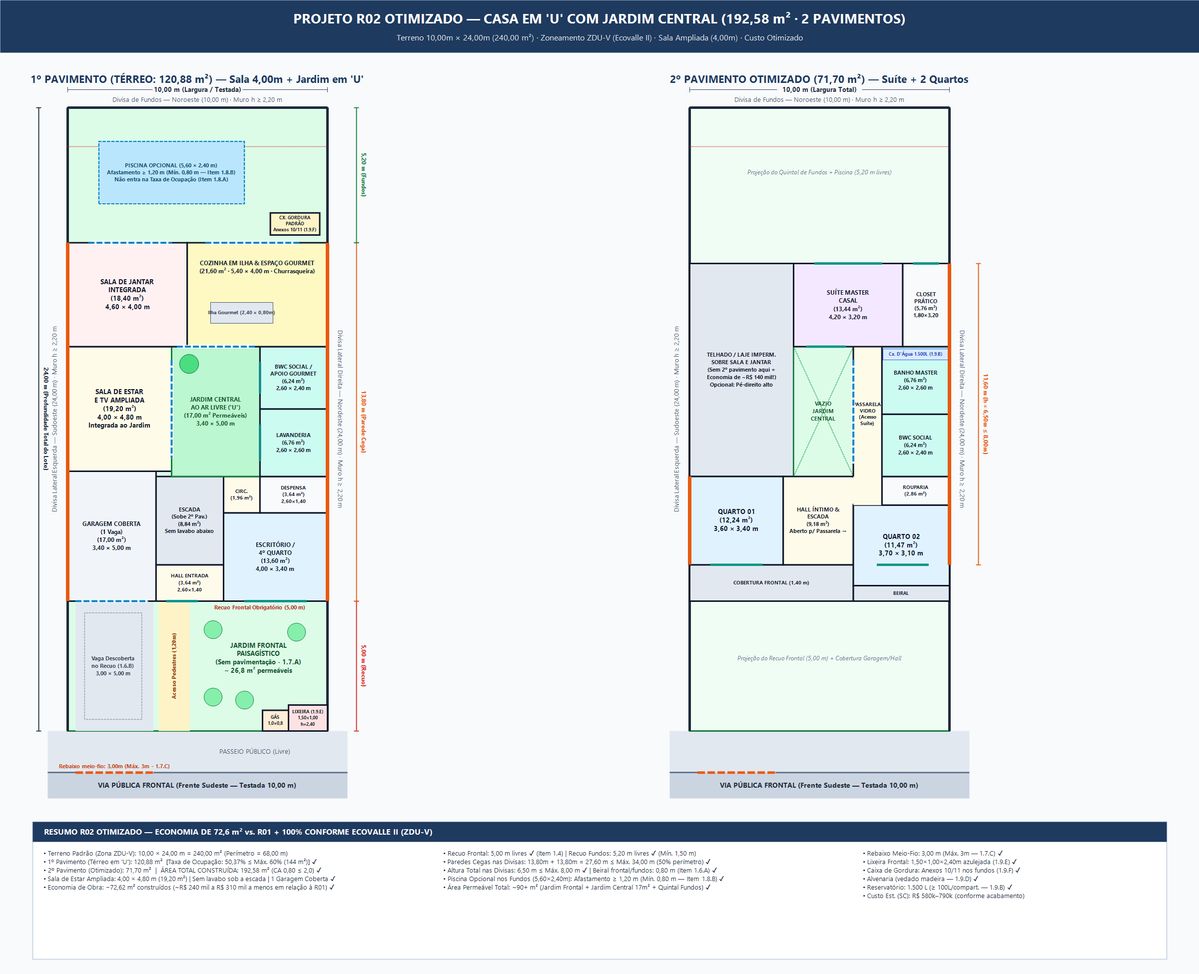
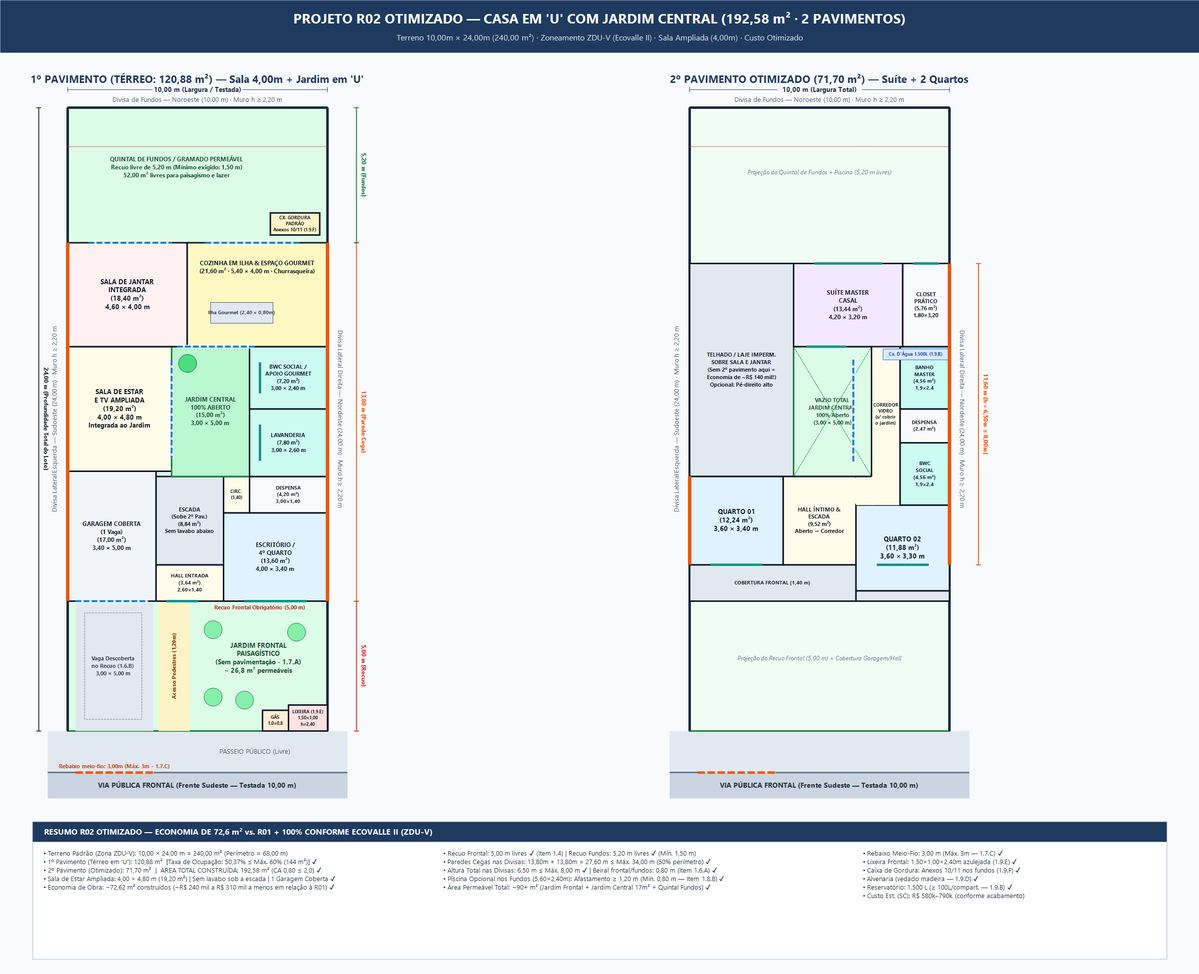
R02.2: 100% open central garden, despensa separating upper bathrooms, remove rouparia & pool

diff --git a/index.html b/index.html
@@ -256,7 +256,6 @@
     <div class="card">
       <h3>Camadas Técnicas (Layers)</h3>
       <div class="toggle-list">
-        <label class="toggle-item"><span>🏊 Simular Piscina (Item 1.8)</span><input type="checkbox" id="chk-pool" checked onchange="toggleLayer('layer-pool', this.checked)"></label>
         <label class="toggle-item"><span>Cotas e Eixos Externos</span><input type="checkbox" id="chk-cotas" checked onchange="toggleLayer('layer-cotas', this.checked)"></label>
         <label class="toggle-item"><span>Layout / Mobiliário Fixo</span><input type="checkbox" id="chk-mob" checked onchange="toggleLayer('layer-mob', this.checked)"></label>
         <label class="toggle-item"><span>Códigos Portas/Janelas (P/J)</span><input type="checkbox" id="chk-esq" checked onchange="toggleLayer('layer-esq-tags', this.checked)"></label>
@@ -275,9 +274,9 @@
     <div class="card">
       <h3>Índices R02 (ZDU-V)</h3>
       <div class="metric-row"><span>Terreno (10 × 24 m)</span><strong>240,00 m²</strong></div>
-      <div class="metric-row"><span>Térreo em "U" (TO)</span><strong class="ok">120,88 m² (50,4% ≤ 60%)</strong></div>
-      <div class="metric-row"><span>2º Pav. Otimizado</span><strong class="ok">74,66 m²</strong></div>
-      <div class="metric-row"><span>Área Total (CA)</span><strong class="ok">195,54 m² (0,81 ≤ 2,0)</strong></div>
+      <div class="metric-row"><span>Térreo em "U" (TO)</span><strong class="ok">122,88 m² (51,2% ≤ 60%)</strong></div>
+      <div class="metric-row"><span>2º Pav. Otimizado</span><strong class="ok">71,80 m²</strong></div>
+      <div class="metric-row"><span>Área Total (CA)</span><strong class="ok">194,68 m² (0,81 ≤ 2,0)</strong></div>
       <div class="metric-row"><span>Recuo Frontal / Fundos</span><strong class="ok">5,00 m / 5,20 m</strong></div>
       <div class="metric-row"><span>Paredes Cegas Divisa</span><strong class="ok">27,6 m ≤ 34,0 m (50%)</strong></div>
       <div class="metric-row"><span>Altura Divisa / Total</span><strong class="ok">6,50 m ≤ 8,00 m</strong></div>
@@ -316,11 +315,10 @@
         <div class="iso-ctrl">
           <label><input type="checkbox" id="iso-upper" checked onchange="drawIso3D()" style="accent-color:#38bdf8;"> Mostrar 2º Pavimento</label>
           <label style="margin-left:10px;"><input type="checkbox" id="iso-roof" checked onchange="drawIso3D()" style="accent-color:#38bdf8;"> Platibanda / Cobertura</label>
-          <label style="margin-left:10px;"><input type="checkbox" id="iso-pool" checked onchange="drawIso3D()" style="accent-color:#38bdf8;"> Piscina nos Fundos</label>
         </div>
         <div class="iso-ctrl">
           <button class="btn" onclick="setIsoPreset(35)">Vista Frontal SE</button>
-          <button class="btn" onclick="setIsoPreset(140)">Vista Fundos / Piscina</button>
+          <button class="btn" onclick="setIsoPreset(140)">Vista Fundos / Quintal</button>
           <button class="btn" onclick="setIsoPreset(235)">Vista Lateral / Pátio</button>
         </div>
       </div>
@@ -348,9 +346,6 @@
             <button class="tier-btn active" id="tier-med" onclick="setCostTier('med')">Médio Padrão (~R$ 3.650/m²)</button>
             <button class="tier-btn" id="tier-alto" onclick="setCostTier('alto')">Alto Padrão (~R$ 4.550/m²)</button>
           </div>
-          <label style="font-size:12px;display:flex;align-items:center;gap:5px;cursor:pointer;">
-            <input type="checkbox" id="cost-pool" checked onchange="renderCosts()" style="accent-color:#10b981;"> + Piscina Alvenaria/Vinil
-          </label>
           <label style="font-size:12px;display:flex;align-items:center;gap:5px;cursor:pointer;">
             <input type="checkbox" id="cost-muros" checked onchange="renderCosts()" style="accent-color:#10b981;"> + Muros, Lixeira &amp; Cx. Gordura
           </label>
@@ -521,11 +516,12 @@ const ROOMS = {
   "t-cozinha": { floor:"Térreo", name:"Cozinha em Ilha & Gourmet", dims:"5,25 × 3,85 m", area:"21,60 m²", esq:"PC2 (3,20×2,40) p/ Jardim e Fundos", note:"Ilha central de 2,40 m + churrasqueira. Caixa de Gordura Padrão (Anexos 10/11) logo na saída externa." },
   "t-pool":    { floor:"Quintal Fundos", name:"Piscina Opcional (Item 1.8)", dims:"5,60 × 2,40 m", area:"13,44 m² (fora da TO)", esq:"Afastamento ≥ 1,20 m das divisas", note:"Atende 100% ao Item 1.8.A (não entra na Taxa de Ocupação) e Item 1.8.B (mín. 0,80 m para escavação)." },
   "s-q1":      { floor:"2º Pavimento", name:"Dormitório 01", dims:"3,45 × 3,25 m", area:"12,24 m²", esq:"P2 (0,80) · J1 (2,20×1,40)", note:"Sol da manhã (Sudeste). Closet separado eliminado na R02 para otimizar custo e área útil." },
-  "s-q2":      { floor:"2º Pavimento", name:"Dormitório 02", dims:"3,45 × 3,25 m", area:"12,24 m²", esq:"P2 (0,80) · J1 (2,20×1,40)", note:"Sol da manhã (Sudeste). Comporta cama casal/queen + guarda-roupa planejado." },
-  "s-hall":    { floor:"2º Pavimento", name:"Hall Íntimo & Escada", dims:"2,65 × 3,25 m", area:"9,52 m²", esq:"Iluminação natural p/ pátio", note:"Distribuição compacta sem corredores desperdiçados." },
-  "s-pass":    { floor:"2º Pavimento", name:"Passarela Envidraçada", dims:"1,00 × 4,85 m", area:"5,50 m²", esq:"PC1 Vidro (3,80×2,40)", note:"Conecta os quartos à Suíte Master e ao BWC Social com vista para a copa da árvore no Jardim Central." },
-  "s-bwcsoc":  { floor:"2º Pavimento", name:"Banheiro Social Superior", dims:"2,40 × 2,25 m", area:"6,24 m²", esq:"P3 (0,70) · J3 (1,20×0,60)", note:"Empilhado sobre a Lavanderia térrea." },
-  "s-bwcmast": { floor:"2º Pavimento", name:"Banho Suíte Master", dims:"2,40 × 2,45 m", area:"6,76 m²", esq:"P3 (0,70) · J3 (1,20×0,60)", note:"Empilhado sobre o BWC Gourmet. Acima dele fica o reservatório de 1.500 L (Item 1.9.B)." },
+  "s-q2":      { floor:"2º Pavimento", name:"Dormitório 02", dims:"3,45 × 3,15 m", area:"11,88 m²", esq:"P2 (0,80) · J1 (2,20×1,40)", note:"Sol da manhã (Sudeste). Comporta cama casal/queen + guarda-roupa planejado." },
+  "s-hall":    { floor:"2º Pavimento", name:"Hall Íntimo & Escada", dims:"2,65 × 3,25 m", area:"10,18 m²", esq:"Acesso aberto ao Corredor", note:"Distribuição limpa conectada diretamente ao Corredor Envidraçado sem cobrir o Jardim Central." },
+  "s-pass":    { floor:"2º Pavimento", name:"Corredor Envidraçado (s/ cobrir jardim)", dims:"1,00 × 6,00 m", area:"6,71 m²", esq:"PC1 Vidro (4,20×2,40) p/ Vazio", note:"Alinhado 100% sobre a ala direita do térreo — o Jardim Central (3,00 × 5,00 m) fica 100% aberto ao céu!" },
+  "s-bwcsoc":  { floor:"2º Pavimento", name:"Banheiro Social Superior", dims:"1,75 × 2,25 m", area:"4,56 m²", esq:"P3 (0,70) · Ventilação Zenital/Duto", note:"Separado fisicamente do Banho Master pela Despensa Superior (mais privacidade acústica)." },
+  "s-desp":    { floor:"2º Pavimento", name:"Despensa / Depósito Superior", dims:"1,75 × 1,15 m", area:"2,47 m²", esq:"P3 (0,70×2,10)", note:"Posicionado entre o BWC Social e o Banho Master para que os banheiros não fiquem colados." },
+  "s-bwcmast": { floor:"2º Pavimento", name:"Banho Suíte Master", dims:"1,75 × 2,25 m", area:"4,56 m²", esq:"P3 (0,70) · Ventilação Zenital/Duto", note:"Separado do BWC Social pela Despensa. Acima da laje fica o reservatório de 1.500 L (Item 1.9.B)." },
   "s-suite":   { floor:"2º Pavimento", name:"Suíte Master Casal", dims:"4,05 × 3,05 m", area:"13,44 m²", esq:"P2 (0,80) · J1 (2,20) · J2 (1,50)", note:"Ventilação cruzada entre o Jardim Central e os Fundos (com brise/beiral de 0,80 m p/ sol da tarde)." },
   "s-closet":  { floor:"2º Pavimento", name:"Mini Closet Prático", dims:"1,65 × 3,05 m", area:"5,76 m²", esq:"P2 (0,80) · J2 (1,50×1,20)", note:"Reduzido de 17,86 m² (R01) para 5,76 m² práticos na R02, mantendo ventilação natural contra umidade." },
   "s-roof":    { floor:"Cobertura Econômica", name:"Telhado Embutido s/ Sala e Jantar", dims:"4,00 × 9,00 m", area:"36,00 m² (sem 2º pav.)", esq:"Sem carga de 2º pavimento", note:"PRINCIPAL ECONOMIA DA R02: eliminar o 2º andar neste trecho poupa ~R$ 140 mil em laje, pilares, alvenaria e acabamento!" }
@@ -740,8 +736,8 @@ function buildFloorR02(root, ox, oy, isGround) {
   const gHits   = el("g", {}, gFloor);
 
   txt(px(ox, 5.0), oy - 48, isGround
-    ? "1º PAVIMENTO (TÉRREO: 120,88 m²) · ESC. 1:100"
-    : "2º PAVIMENTO OTIMIZADO (74,66 m²) · ESC. 1:100",
+    ? "1º PAVIMENTO (TÉRREO: 122,88 m²) · ESC. 1:100"
+    : "2º PAVIMENTO OTIMIZADO (71,80 m²) · ESC. 1:100",
     { "font-size": 12.8, "font-weight": 800, fill: "#0f172a", "text-anchor": "middle" }, gBase);
 
   // Sidewalk & Street
@@ -792,24 +788,20 @@ function buildFloorR02(root, ox, oy, isGround) {
     el("rect", { x: px(ox, 7.8), y: py(oy, 19.95), width: 1.9*S, height: 0.8*S, fill: "#fef3c7", stroke: "#92400e", "stroke-width": 1.3 }, gWalls);
     txt(px(ox, 8.75), py(oy, 19.52), ["CX. GORDURA PADRÃO", "Anexos 10/11 (1.9.F)"], { "font-size": 5.8, "font-weight": 700, fill: "#78350f", "text-anchor": "middle" }, gLabels);
 
-    // Optional Pool Layer (Item 1.8: 5.60 x 2.40m, >= 1.20m from left/back walls!)
-    el("rect", { x: px(ox, 1.2), y: py(oy, 22.7), width: 5.6*S, height: 2.4*S, rx: 4, fill: "#bae6fd", stroke: "#0284c7", "stroke-width": 2.0 }, gPool);
-    el("rect", { x: px(ox, 1.35), y: py(oy, 22.55), width: 5.3*S, height: 2.1*S, rx: 2, fill: "#e0f2fe", "fill-opacity": 0.65, stroke: "#38bdf8", "stroke-width": 0.8 }, gPool);
-    txt(px(ox, 4.0), py(oy, 21.6), ["PISCINA OPCIONAL (5,60 × 2,40 m)", "Afastamento ≥ 1,20 m (Mín. 0,80 m — Item 1.8.B)", "Não computada na TO (Item 1.8.A)"], { "font-size": 7.0, "font-weight": 700, fill: "#0c4a6e", "text-anchor": "middle", "data-lh": "1.25em" }, gPool);
-    const hitPool = el("rect", { x: px(ox, 1.2), y: py(oy, 22.7), width: 5.6*S, height: 2.4*S, fill: "transparent", class: "room-hit", "data-room": "t-pool" }, gPool);
-    hitPool.addEventListener("click", (e) => { e.stopPropagation(); selectRoom("t-pool"); });
+    // Rear Backyard label (5.20m free permeable yard)
+    txt(px(ox, 4.1), py(oy, 21.6), ["QUINTAL DE FUNDOS PERMEÁVEL", "Recuo livre de 5,20 m (Mínimo exigido: 1,50 m)"], { "font-size": 7.5, "font-weight": 700, fill: "#166534", "text-anchor": "middle", "data-lh": "1.25em" }, gLabels);
 
     // TÉRREO ROOMS
     roomZone("t-garagem", 0.0, 5.0, 3.4, 5.0, ["GARAGEM COBERTA", "(1 Vaga)"], "17,00 m²", "+0,15", "#f8fafc", false);
     roomZone("t-hall",    3.4, 5.0, 2.6, 1.4, ["HALL ENTRADA"], "3,64 m²", "+0,25", "#ffffff", false);
     roomZone("t-hall",    3.4, 6.4, 2.6, 3.4, ["ESCADA LIMPA", "(Sem lavabo)"], "8,84 m²", "", "#f1f5f9", false);
     roomZone("t-office",  6.0, 5.0, 4.0, 3.4, ["ESCRITÓRIO /", "4º QUARTO"], "13,60 m²", "+0,25", "#ffffff", false);
-    roomZone("t-desp",    6.0, 8.4, 1.4, 1.4, ["CIRC."], "1,96 m²", "", "#ffffff", false);
-    roomZone("t-desp",    7.4, 8.4, 2.6, 1.4, ["DESPENSA"], "3,64 m²", "+0,25", "#ffffff", false);
+    roomZone("t-desp",    6.0, 8.4, 1.0, 1.4, ["CIRC."], "1,40 m²", "", "#ffffff", false);
+    roomZone("t-desp",    7.0, 8.4, 3.0, 1.4, ["DESPENSA"], "4,20 m²", "+0,25", "#ffffff", false);
     roomZone("t-estar",   0.0, 10.0, 4.0, 4.8, ["SALA DE ESTAR E TV", "AMPLIADA (4,00m)"], "19,20 m²", "+0,25", "#ffffff", false);
-    roomZone("t-jardim",  4.0, 9.8, 3.4, 5.0, ["JARDIM CENTRAL", "ABERTO ('U')"], "17,00 m²", "+0,15", "url(#pat-grass)", false);
-    roomZone("t-lavand",  7.4, 9.8, 2.6, 2.6, ["LAVANDERIA"], "6,76 m²", "+0,23", "#ffffff", true);
-    roomZone("t-bwc",     7.4, 12.4, 2.6, 2.4, ["BWC SOCIAL /", "APOIO GOURMET"], "6,24 m²", "+0,23", "#ffffff", true);
+    roomZone("t-jardim",  4.0, 9.8, 3.0, 5.0, ["JARDIM CENTRAL", "100% ABERTO"], "15,00 m²", "+0,15", "url(#pat-grass)", false);
+    roomZone("t-lavand",  7.0, 9.8, 3.0, 2.6, ["LAVANDERIA"], "7,80 m²", "+0,23", "#ffffff", true);
+    roomZone("t-bwc",     7.0, 12.4, 3.0, 2.4, ["BWC SOCIAL /", "APOIO GOURMET"], "7,20 m²", "+0,23", "#ffffff", true);
     roomZone("t-jantar",  0.0, 14.8, 4.6, 4.0, ["SALA DE JANTAR"], "18,40 m²", "+0,25", "#ffffff", false);
     roomZone("t-cozinha", 4.6, 14.8, 5.4, 4.0, ["COZINHA EM ILHA &", "ESPAÇO GOURMET"], "21,60 m²", "+0,25", "#ffffff", true);
 
@@ -837,76 +829,76 @@ function buildFloorR02(root, ox, oy, isGround) {
     drawWall(gWalls, ox, oy, 0.0, 5.0, 10.0, 5.0, 0.18);
     drawWall(gWalls, ox, oy, 0.0, 18.8, 10.0, 18.8, 0.18);
     drawWall(gWalls, ox, oy, 4.0, 9.8, 4.0, 14.8, 0.15);
-    drawWall(gWalls, ox, oy, 7.4, 9.8, 7.4, 14.8, 0.15);
-    drawWall(gWalls, ox, oy, 3.4, 9.8, 7.4, 9.8, 0.15);
+    drawWall(gWalls, ox, oy, 7.0, 9.8, 7.0, 14.8, 0.15);
+    drawWall(gWalls, ox, oy, 3.4, 9.8, 7.0, 9.8, 0.15);
     drawWall(gWalls, ox, oy, 4.0, 14.8, 10.0, 14.8, 0.15);
     drawWall(gWalls, ox, oy, 3.4, 5.0, 3.4, 10.0, 0.15);
     drawWall(gWalls, ox, oy, 0.0, 10.0, 4.0, 10.0, 0.15);
     drawWall(gWalls, ox, oy, 6.0, 5.0, 6.0, 9.8, 0.15);
     drawWall(gWalls, ox, oy, 6.0, 8.4, 10.0, 8.4, 0.15);
-    drawWall(gWalls, ox, oy, 7.4, 8.4, 7.4, 9.8, 0.13);
-    drawWall(gWalls, ox, oy, 7.4, 12.4, 10.0, 12.4, 0.13);
+    drawWall(gWalls, ox, oy, 7.0, 8.4, 7.0, 9.8, 0.13);
+    drawWall(gWalls, ox, oy, 7.0, 12.4, 10.0, 12.4, 0.13);
 
     // DOORS & WINDOWS TÉRREO
     drawWindow(gWalls, gEsqTag, ox, oy, 0.2, 5.0, 3.2, 5.0, "PG1", true);
     drawDoor(gWalls, gEsqTag, ox, oy, 3.7, 5.0, 1.20, "H", "NW", "P1");
     drawDoor(gWalls, gEsqTag, ox, oy, 3.4, 6.1, 0.80, "V", "ES", "P4");
     drawDoor(gWalls, gEsqTag, ox, oy, 6.0, 6.2, 0.80, "V", "ES", "P2");
-    drawDoor(gWalls, gEsqTag, ox, oy, 7.4, 8.6, 0.70, "V", "EN", "P3");
-    drawDoor(gWalls, gEsqTag, ox, oy, 7.6, 14.8, 0.80, "H", "SW", "P4");
-    drawDoor(gWalls, gEsqTag, ox, oy, 8.7, 14.8, 0.70, "H", "SW", "P3");
+    drawDoor(gWalls, gEsqTag, ox, oy, 7.0, 8.6, 0.70, "V", "EN", "P3");
+    drawDoor(gWalls, gEsqTag, ox, oy, 7.3, 14.8, 0.80, "H", "SW", "P4");
+    drawDoor(gWalls, gEsqTag, ox, oy, 8.5, 14.8, 0.70, "H", "SW", "P3");
     drawWindow(gWalls, gEsqTag, ox, oy, 6.9, 5.0, 9.1, 5.0, "J1", false);
     drawWindow(gWalls, gEsqTag, ox, oy, 4.0, 10.4, 4.0, 14.2, "PC1", true);
-    drawWindow(gWalls, gEsqTag, ox, oy, 7.4, 10.5, 7.4, 11.7, "J3", false);
-    drawWindow(gWalls, gEsqTag, ox, oy, 7.4, 13.0, 7.4, 14.2, "J3", false);
-    drawWindow(gWalls, gEsqTag, ox, oy, 4.2, 14.8, 7.3, 14.8, "PC2", true);
+    drawWindow(gWalls, gEsqTag, ox, oy, 7.0, 10.5, 7.0, 11.7, "J3", false);
+    drawWindow(gWalls, gEsqTag, ox, oy, 7.0, 13.0, 7.0, 14.2, "J3", false);
+    drawWindow(gWalls, gEsqTag, ox, oy, 4.2, 14.8, 6.9, 14.8, "PC2", true);
     drawWindow(gWalls, gEsqTag, ox, oy, 0.7, 18.8, 3.9, 18.8, "PC2", true);
     drawWindow(gWalls, gEsqTag, ox, oy, 5.4, 18.8, 8.6, 18.8, "PC2", true);
 
   } else {
-    // 2º PAVIMENTO OTIMIZADO (74,66 m² — Circulação Contínua Hall → Passarela → Suíte!)
-    roomZone("s-roof", 0.0, 5.0, 6.3, 1.4, ["COBERTURA FRONTAL (1,40m)"], "", "", "url(#pat-roof)", false);
-    roomZone("s-roof", 6.3, 5.0, 3.7, 0.6, ["BEIRAL"], "", "", "url(#pat-roof)", false);
+    // 2º PAVIMENTO OTIMIZADO (71,80 m² — Jardim 100% livre + Despensa separando os banheiros!)
+    roomZone("s-roof", 0.0, 5.0, 6.4, 1.4, ["COBERTURA FRONTAL (1,40m)"], "", "", "url(#pat-roof)", false);
+    roomZone("s-roof", 6.4, 5.0, 3.6, 0.4, [""], "", "", "url(#pat-roof)", false);
     roomZone("s-roof", 0.0, 9.8, 4.0, 9.0, ["TELHADO EMBUTIDO", "SOBRE SALA / JANTAR", "(Economia de Obra!)"], "", "", "url(#pat-roof)", false);
 
-    // Central Void
-    el("rect", { x: px(ox, 4.0), y: py(oy, 14.8), width: 2.3*S, height: 5.0*S, fill: "#f0fdf4", stroke: "#15803d", "stroke-width": 1.3 }, gFills);
-    el("line", { x1: px(ox, 4.0), y1: py(oy, 14.8), x2: px(ox, 6.3), y2: py(oy, 9.8), stroke: "#86efac", "stroke-width": 1, "stroke-dasharray": "5,3" }, gHatch);
-    el("line", { x1: px(ox, 6.3), y1: py(oy, 14.8), x2: px(ox, 4.0), y2: py(oy, 9.8), stroke: "#86efac", "stroke-width": 1, "stroke-dasharray": "5,3" }, gHatch);
-    txt(px(ox, 5.15), py(oy, 12.4), ["VAZIO", "JARDIM", "CENTRAL"], { "font-size": 7.5, "font-weight": 700, fill: "#166534", "text-anchor": "middle" }, gLabels);
+    // Central Void — 100% ALIGNED WITH GROUND FLOOR GARDEN (x=4.0..7.0, y=9.8..14.8 -> ZERO COVER!)
+    el("rect", { x: px(ox, 4.0), y: py(oy, 14.8), width: 3.0*S, height: 5.0*S, fill: "#f0fdf4", stroke: "#15803d", "stroke-width": 1.4 }, gFills);
+    el("line", { x1: px(ox, 4.0), y1: py(oy, 14.8), x2: px(ox, 7.0), y2: py(oy, 9.8), stroke: "#86efac", "stroke-width": 1, "stroke-dasharray": "5,3" }, gHatch);
+    el("line", { x1: px(ox, 7.0), y1: py(oy, 14.8), x2: px(ox, 4.0), y2: py(oy, 9.8), stroke: "#86efac", "stroke-width": 1, "stroke-dasharray": "5,3" }, gHatch);
+    txt(px(ox, 5.5), py(oy, 12.4), ["VAZIO TOTAL", "JARDIM CENTRAL", "(3,00 × 5,00 m)", "100% Aberto ao Céu"], { "font-size": 7.5, "font-weight": 700, fill: "#166534", "text-anchor": "middle" }, gLabels);
 
     roomZone("s-q1",      0.0, 6.4, 3.6, 3.4, ["DORMITÓRIO 01"], "12,24 m²", "+3,20", "#ffffff", false);
-    roomZone("s-hall",    3.6, 6.4, 2.7, 3.4, ["HALL ÍNTIMO", "& ESCADA"], "9,18 m²", "+3,20", "#f8fafc", false);
-    roomZone("s-hall",    6.3, 8.7, 1.1, 1.1, [""], "", "", "#fefce8", false);
-    roomZone("s-q2",      6.3, 5.6, 3.7, 3.1, ["DORMITÓRIO 02"], "11,47 m²", "+3,20", "#ffffff", false);
-    roomZone("s-hall",    7.4, 8.7, 2.6, 1.1, ["ROUPARIA"], "2,86 m²", "", "#f8fafc", false);
-    roomZone("s-pass",    6.3, 9.8, 1.1, 5.0, ["PASS.", "VIDRO"], "5,50 m²", "", "#fefce8", false);
-    roomZone("s-bwcsoc",  7.4, 9.8, 2.6, 2.4, ["BWC SOCIAL"], "6,24 m²", "+3,18", "#ffffff", true);
-    roomZone("s-bwcmast", 7.4, 12.2, 2.6, 2.6, ["BANHO MASTER"], "6,76 m²", "+3,18", "#ffffff", true);
+    roomZone("s-hall",    3.6, 6.4, 2.8, 3.4, ["HALL ÍNTIMO", "& ESCADA"], "9,52 m²", "+3,20", "#f8fafc", false);
+    roomZone("s-hall",    6.4, 8.7, 0.6, 1.1, [""], "", "", "#fefce8", false);
+    roomZone("s-q2",      6.4, 5.4, 3.6, 3.3, ["DORMITÓRIO 02"], "11,88 m²", "+3,20", "#ffffff", false);
+    roomZone("s-pass",    7.0, 8.7, 1.1, 6.1, ["CORREDOR", "VIDRO"], "6,71 m²", "", "#fefce8", false);
+    roomZone("s-bwcsoc",  8.1, 8.7, 1.9, 2.4, ["BWC SOCIAL"], "4,56 m²", "+3,18", "#ffffff", true);
+    roomZone("s-desp",    8.1, 11.1, 1.9, 1.3, ["DESPENSA"], "2,47 m²", "+3,20", "#f8fafc", false);
+    roomZone("s-bwcmast", 8.1, 12.4, 1.9, 2.4, ["BANHO", "MASTER"], "4,56 m²", "+3,18", "#ffffff", true);
     roomZone("s-suite",   4.0, 14.8, 4.2, 3.2, ["SUÍTE MASTER", "CASAL"], "13,44 m²", "+3,20", "#ffffff", false);
     roomZone("s-closet",  8.2, 14.8, 1.8, 3.2, ["MINI", "CLOSET"], "5,76 m²", "+3,20", "#ffffff", false);
 
-    // Circulation arrow showing open flow Hall -> Passarela -> Suite!
-    el("path", { d: `M ${px(ox, 5.8)} ${py(oy, 9.25)} L ${px(ox, 6.85)} ${py(oy, 9.25)} L ${px(ox, 6.85)} ${py(oy, 10.6)}`, fill: "none", stroke: "#0284c7", "stroke-width": 1.2, "stroke-dasharray": "3,2", "marker-end": "url(#blue-arrow)" }, gMob);
+    // Clean flow arrow Hall -> Corredor -> Suite
+    el("path", { d: `M ${px(ox, 5.9)} ${py(oy, 9.25)} L ${px(ox, 7.55)} ${py(oy, 9.25)} L ${px(ox, 7.55)} ${py(oy, 10.6)}`, fill: "none", stroke: "#0284c7", "stroke-width": 1.2, "stroke-dasharray": "3,2", "marker-end": "url(#blue-arrow)" }, gMob);
 
     // Beds
     el("rect", { x: px(ox, 0.3), y: py(oy, 9.3), width: 1.5*S, height: 1.9*S, rx: 2, fill: "#f8fafc", stroke: "#64748b", "stroke-width": 0.8 }, gMob);
     el("rect", { x: px(ox, 8.2), y: py(oy, 8.2), width: 1.5*S, height: 1.9*S, rx: 2, fill: "#f8fafc", stroke: "#64748b", "stroke-width": 0.8 }, gMob);
     el("rect", { x: px(ox, 4.4), y: py(oy, 17.5), width: 1.9*S, height: 2.0*S, rx: 2, fill: "#f8fafc", stroke: "#64748b", "stroke-width": 0.8 }, gMob);
 
-    // WALLS 2º PAV (Open 1,10m passage at x=6.3, y=8.7..9.8 AND y=9.8, x=6.3..7.4!)
-    drawWall(gWalls, ox, oy, 0.0, 6.4, 6.3, 6.4, 0.18);
-    drawWall(gWalls, ox, oy, 6.3, 5.6, 10.0, 5.6, 0.18);
+    // WALLS 2º PAV (100% aligned over Ground Floor Right Wing x=7.0..10.0!)
+    drawWall(gWalls, ox, oy, 0.0, 6.4, 6.4, 6.4, 0.18);
+    drawWall(gWalls, ox, oy, 6.4, 5.4, 10.0, 5.4, 0.18);
     drawWall(gWalls, ox, oy, 0.0, 6.4, 0.0, 9.8, 0.18);
-    drawWall(gWalls, ox, oy, 10.0, 5.6, 10.0, 18.0, 0.18);
-    drawWall(gWalls, ox, oy, 0.0, 9.8, 6.3, 9.8, 0.15);   // Stops at x=6.3 -> open passage to Passarela!
-    drawWall(gWalls, ox, oy, 7.4, 9.8, 10.0, 9.8, 0.15);  // Wall between Rouparia & BWC Social
+    drawWall(gWalls, ox, oy, 10.0, 5.4, 10.0, 18.0, 0.18);
+    drawWall(gWalls, ox, oy, 0.0, 9.8, 7.0, 9.8, 0.15);   // Stops cleanly at x=7.0 (edge of Central Garden!)
     drawWall(gWalls, ox, oy, 3.6, 6.4, 3.6, 9.8, 0.15);
-    drawWall(gWalls, ox, oy, 6.3, 5.6, 6.3, 8.7, 0.15);   // Stops at y=8.7 -> open passage from Hall!
-    drawWall(gWalls, ox, oy, 6.3, 8.7, 10.0, 8.7, 0.15);  // Wall between Q2 & Corridor/Rouparia
-    drawWall(gWalls, ox, oy, 6.3, 9.8, 6.3, 14.8, 0.13);  // Glass wall of Passarela facing Void
-    drawWall(gWalls, ox, oy, 7.4, 8.7, 7.4, 14.8, 0.15);  // Spine separating Passarela from Rouparia/BWCs
-    drawWall(gWalls, ox, oy, 7.4, 12.2, 10.0, 12.2, 0.15);
+    drawWall(gWalls, ox, oy, 6.4, 5.4, 6.4, 8.7, 0.15);   // Open passage from Hall at y=8.7..9.8!
+    drawWall(gWalls, ox, oy, 6.4, 8.7, 10.0, 8.7, 0.15);  // Separates Q2 from Corredor & BWC Social
+    drawWall(gWalls, ox, oy, 7.0, 9.8, 7.0, 14.8, 0.13);  // Glass wall of Corredor facing 100% open Garden
+    drawWall(gWalls, ox, oy, 8.1, 8.7, 8.1, 14.8, 0.15);  // Spine separating Corredor from BWC Social / Despensa / Banho Master
+    drawWall(gWalls, ox, oy, 8.1, 11.1, 10.0, 11.1, 0.13);// Separates BWC Social & Despensa
+    drawWall(gWalls, ox, oy, 8.1, 12.4, 10.0, 12.4, 0.13);// Separates Despensa & Banho Master
     drawWall(gWalls, ox, oy, 4.0, 14.8, 10.0, 14.8, 0.15);
     drawWall(gWalls, ox, oy, 4.0, 14.8, 4.0, 18.0, 0.18);
     drawWall(gWalls, ox, oy, 4.0, 18.0, 10.0, 18.0, 0.18);
@@ -914,16 +906,17 @@ function buildFloorR02(root, ox, oy, isGround) {
 
     // DOORS & WINDOWS 2º PAV
     drawDoor(gWalls, gEsqTag, ox, oy, 3.6, 8.5, 0.80, "V", "WS", "P2");   // Hall -> Q1
-    drawDoor(gWalls, gEsqTag, ox, oy, 6.45, 8.7, 0.80, "H", "SW", "P2");  // Hall/Corridor -> Q2
-    drawDoor(gWalls, gEsqTag, ox, oy, 7.4, 10.4, 0.70, "V", "EN", "P3");  // Passarela -> BWC Social
-    drawDoor(gWalls, gEsqTag, ox, oy, 6.45, 14.8, 0.80, "H", "NW", "P2"); // Passarela -> Suíte Master!
+    drawDoor(gWalls, gEsqTag, ox, oy, 6.55, 8.7, 0.80, "H", "SW", "P2");  // Hall/Corredor -> Q2
+    drawDoor(gWalls, gEsqTag, ox, oy, 8.1, 9.5, 0.70, "V", "EN", "P3");   // Corredor -> BWC Social
+    drawDoor(gWalls, gEsqTag, ox, oy, 8.1, 11.4, 0.70, "V", "EN", "P3");  // Corredor -> Despensa (between bathrooms!)
+    drawDoor(gWalls, gEsqTag, ox, oy, 7.15, 14.8, 0.80, "H", "NW", "P2"); // Corredor -> Suíte Master!
     drawDoor(gWalls, gEsqTag, ox, oy, 8.2, 16.0, 0.80, "V", "EN", "P2");  // Suíte Master -> Mini Closet
-    drawDoor(gWalls, gEsqTag, ox, oy, 8.5, 14.8, 0.70, "H", "SW", "P3");  // Mini Closet -> Banho Master
+    drawDoor(gWalls, gEsqTag, ox, oy, 8.6, 14.8, 0.70, "H", "SW", "P3");  // Mini Closet -> Banho Master
 
     drawWindow(gWalls, gEsqTag, ox, oy, 0.7, 6.4, 2.9, 6.4, "J1", false);
-    drawWindow(gWalls, gEsqTag, ox, oy, 7.0, 5.6, 9.2, 5.6, "J1", false);
-    drawWindow(gWalls, gEsqTag, ox, oy, 6.3, 10.4, 6.3, 14.2, "PC1", true);
-    drawWindow(gWalls, gEsqTag, ox, oy, 4.5, 14.8, 6.0, 14.8, "J2", false);
+    drawWindow(gWalls, gEsqTag, ox, oy, 7.1, 5.4, 9.3, 5.4, "J1", false);
+    drawWindow(gWalls, gEsqTag, ox, oy, 7.0, 10.3, 7.0, 14.3, "PC1", true);
+    drawWindow(gWalls, gEsqTag, ox, oy, 4.5, 14.8, 6.5, 14.8, "J2", false);
     drawWindow(gWalls, gEsqTag, ox, oy, 5.0, 18.0, 7.2, 18.0, "J1", false);
     drawWindow(gWalls, gEsqTag, ox, oy, 8.4, 18.0, 9.8, 18.0, "J2", false);
   }
@@ -943,8 +936,8 @@ function buildFloorR02(root, ox, oy, isGround) {
   drawDimH(gCotas, ox, oy, 0, 10, 24, -28, "10,00 m (Testada / Fundos)");
   if (isGround) {
     drawDimH(gCotas, ox, oy, 0, 4.0, 24, -13, "4,00 (Sala)");
-    drawDimH(gCotas, ox, oy, 4.0, 7.4, 24, -13, "3,40 (Pátio)");
-    drawDimH(gCotas, ox, oy, 7.4, 10, 24, -13, "2,60");
+    drawDimH(gCotas, ox, oy, 4.0, 7.0, 24, -13, "3,00 (Pátio)");
+    drawDimH(gCotas, ox, oy, 7.0, 10, 24, -13, "3,00");
   } else {
     drawDimH(gCotas, ox, oy, 0, 4.0, 24, -13, "4,00 (Telhado)");
     drawDimH(gCotas, ox, oy, 4.0, 8.2, 24, -13, "4,20 (Suíte)");
@@ -995,10 +988,7 @@ function renderSectionsAndFacade(root) {
   // Rear perimeter wall (x=24, h=2.20m)
   el("rect", { x: cx0 + 23.85*cs, y: cyGround - 2.2*cs, width: 0.15*cs, height: 2.2*cs, fill: "#334155" }, g);
   txt(cx0 + 23.2*cs, cyGround - 2.4*cs, "Muro 2,20m", { "font-size": 7.5, "font-weight": 700, fill: "#334155", "text-anchor": "middle" }, g);
-
-  // Pool cut in rear yard (x=20.2..22.6, depth 1.3m)
-  el("rect", { x: cx0 + 20.2*cs, y: cyGround, width: 2.4*cs, height: 1.3*cs, fill: "#bae6fd", stroke: "#0284c7", "stroke-width": 2 }, g);
-  txt(cx0 + 21.4*cs, cyGround + 0.7*cs, "Piscina (-1,30m)", { "font-size": 7.2, "font-weight": 700, fill: "#0c4a6e", "text-anchor": "middle" }, g);
+  txt(cx0 + 21.3*cs, cyGround - 0.6*cs, "Quintal Gramado (5,20m)", { "font-size": 7.4, "font-weight": 700, fill: "#166534", "text-anchor": "middle" }, g);
 
   // TÉRREO STRUCTURE (x=5.0..18.8, floor +0.25m, ceiling +3.05m, slab +3.20m)
   // Front block (5.0..9.8)
@@ -1122,11 +1112,11 @@ function drawTitleBlock(root) {
   txt(bx + 12, y2 + 15, "QUADRO DE ÁREAS R02 OTIMIZADO (ZDU-V)", { "font-size": 9.5, "font-weight": 800, fill: "#ffffff" }, g);
   const rows = [
     ["Terreno Padrão (10,00 × 24,00 m)", "240,00 m²", "Perím. 68,0 m"],
-    ["1º Pavimento (Térreo em 'U' — Sala 4,0m)", "120,88 m²", "TO 50,37% (≤60%)"],
-    ["2º Pavimento Otimizado (Suíte + 2 Qts)", "74,66 m²", "h = 6,50m (≤8m)"],
-    ["ÁREA TOTAL CONSTRUÍDA (R02)", "195,54 m²", "CA 0,81 (≤ 2,0)"],
-    ["Jardim Central Aberto ('U')", "17,00 m²", "3,40 × 5,00 m"],
-    ["Piscina Opcional Fundos (Item 1.8)", "13,44 m²", "Fora da TO"],
+    ["1º Pavimento (Térreo em 'U' — Sala 4,0m)", "122,88 m²", "TO 51,20% (≤60%)"],
+    ["2º Pavimento Otimizado (Suíte + 2 Qts)", "71,80 m²", "h = 6,50m (≤8m)"],
+    ["ÁREA TOTAL CONSTRUÍDA (R02)", "194,68 m²", "CA 0,81 (≤ 2,0)"],
+    ["Jardim Central 100% Aberto ('U')", "15,00 m²", "3,00 × 5,00 m"],
+    ["Quintal Gramado de Fundos", "52,00 m²", "Recuo 5,20 m"],
     ["Paredes Cegas Divisa (13,8 + 13,8m)", "27,60 m", "≤ 34,00 m (50%)"]
   ];
   rows.forEach((r, i) => {
@@ -1224,7 +1214,6 @@ function drawIso3D() {
   document.getElementById("iso-angle-val").textContent = deg + "°";
   const showUpper = document.getElementById("iso-upper").checked;
   const showRoof = document.getElementById("iso-roof").checked;
-  const showPool = document.getElementById("iso-pool").checked;
 
   const rad = deg * Math.PI / 180;
   const cosA = Math.cos(rad), sinA = Math.sin(rad);
@@ -1259,28 +1248,24 @@ function drawIso3D() {
   addBox(10, 0, 0, 10.15, 24, 2.2, "#94a3b8", "#64748b", "#475569");
   addBox(0, 24, 0, 10, 24.15, 2.2, "#94a3b8", "#64748b", "#475569");
 
-  // Optional Pool in Rear Yard
-  if (showPool) {
-    addBox(1.2, 20.3, 0, 6.8, 22.7, 0.14, "#38bdf8", "#0284c7", "#0369a1", "Piscina");
-  }
-
   // 2. Ground Floor U-Shaped Massing (z = 0..3.15)
   const h1 = 3.15;
   addBox(0, 5.0, 0, 10, 9.8, h1, "#e2e8f0", "#f8fafc", "#cbd5e1", "Térreo Frontal");
   addBox(0, 9.8, 0, 4.0, 14.8, h1, "#e2e8f0", "#f8fafc", "#cbd5e1", "Sala 4,0m");
-  addBox(7.4, 9.8, 0, 10, 14.8, h1, "#e2e8f0", "#cbd5e1", "#94a3b8", "Serviço/BWC");
+  addBox(7.0, 9.8, 0, 10, 14.8, h1, "#e2e8f0", "#cbd5e1", "#94a3b8", "Serviço/BWC");
   addBox(0, 14.8, 0, 10, 18.8, h1, "#e2e8f0", "#f8fafc", "#cbd5e1", "Cozinha/Jantar");
-  // Central Garden lush patch + tree
-  addBox(4.0, 9.8, 0, 7.4, 14.8, 0.12, "#22c55e", "#16a34a", "#15803d", "Jardim Central");
-  addBox(5.55, 12.15, 0.12, 5.85, 12.45, 2.5, "#78350f", "#78350f", "#451a03");
-  addBox(4.9, 11.5, 2.4, 6.5, 13.1, 3.9, "#4ade80", "#22c55e", "#16a34a");
+  // Central Garden lush patch + tree (100% open to sky!)
+  addBox(4.0, 9.8, 0, 7.0, 14.8, 0.12, "#22c55e", "#16a34a", "#15803d", "Jardim Central");
+  addBox(5.35, 12.15, 0.12, 5.65, 12.45, 2.5, "#78350f", "#78350f", "#451a03");
+  addBox(4.7, 11.5, 2.4, 6.3, 13.1, 3.9, "#4ade80", "#22c55e", "#16a34a");
 
-  // 3. Upper Floor Optimized Massing (z = 3.15..6.05)
+  // 3. Upper Floor Optimized Massing (z = 3.15..6.05 — aligned 100% over Right Wing x=7.0..10.0!)
   if (showUpper) {
     const h2 = showRoof ? 6.50 : 6.05;
-    addBox(0, 6.4, h1, 10, 9.8, h2, showRoof ? "#1e3a5f" : "#f1f5f9", "#ffffff", "#dbeafe", "Quartos 01/02");
-    addBox(6.3, 9.8, h1, 7.4, 14.8, h2 - 0.15, "#38bdf8", "#7dd3fc", "#0284c7", "Passarela Vidro");
-    addBox(7.4, 9.8, h1, 10, 14.8, h2, showRoof ? "#1e3a5f" : "#f1f5f9", "#f8fafc", "#cbd5e1", "BWCs Sup.");
+    addBox(0, 6.4, h1, 6.4, 9.8, h2, showRoof ? "#1e3a5f" : "#f1f5f9", "#ffffff", "#dbeafe", "Quarto 01/Hall");
+    addBox(6.4, 5.4, h1, 10, 8.7, h2, showRoof ? "#1e3a5f" : "#f1f5f9", "#ffffff", "#dbeafe", "Quarto 02");
+    addBox(7.0, 8.7, h1, 8.1, 14.8, h2 - 0.15, "#38bdf8", "#7dd3fc", "#0284c7", "Corredor Vidro");
+    addBox(8.1, 8.7, h1, 10, 14.8, h2, showRoof ? "#1e3a5f" : "#f1f5f9", "#f8fafc", "#cbd5e1", "BWCs/Desp.");
     addBox(4.0, 14.8, h1, 10, 18.0, h2, showRoof ? "#1e3a5f" : "#f1f5f9", "#ffffff", "#e9d5ff", "Suíte Master");
     // Water tank housing
     if (showRoof) {
@@ -1340,7 +1325,7 @@ function drawIso3D() {
 // =============================================================================
 let costTier = "med";
 const TIER_RATE = { eco: 3050, med: 3650, alto: 4550 };
-const AREA_R02 = 195.54;
+const AREA_R02 = 194.68;
 const AREA_R01 = 265.20;
 
 function fmtBRL(v) { return v.toLocaleString("pt-BR", { style: "currency", currency: "BRL", maximumFractionDigits: 0 }); }
@@ -1354,15 +1339,14 @@ function setCostTier(t) {
 function renderCosts() {
   const rate = TIER_RATE[costTier];
   const baseHouse = AREA_R02 * rate;
-  const poolCost = document.getElementById("cost-pool").checked ? (costTier === "alto" ? 58000 : costTier === "med" ? 45000 : 36000) : 0;
   const murosCost = document.getElementById("cost-muros").checked ? 42000 : 0; // 58m muro h=2,20m + lixeira + cx gordura
-  const total = baseHouse + poolCost + murosCost;
+  const total = baseHouse + murosCost;
   const savingsVsR01 = (AREA_R01 - AREA_R02) * rate;
   const matShare = baseHouse * 0.56;
   const laborShare = baseHouse * 0.44;
 
   document.getElementById("cost-kpis").innerHTML = `
-    <div class="kpi"><div class="k-lbl">Custo Total Estimado</div><div class="k-val" style="color:#38bdf8;">${fmtBRL(total)}</div><div class="k-sub">Casa ${fmtBRL(baseHouse)} + Extras ${fmtBRL(poolCost+murosCost)}</div></div>
+    <div class="kpi"><div class="k-lbl">Custo Total Estimado</div><div class="k-val" style="color:#38bdf8;">${fmtBRL(total)}</div><div class="k-sub">Casa ${fmtBRL(baseHouse)} + Muros/Extras ${fmtBRL(murosCost)}</div></div>
     <div class="kpi"><div class="k-lbl">Custo / m² (Casa)</div><div class="k-val">${fmtBRL(rate)}/m²</div><div class="k-sub">Base CUB/SC · 192,58 m² construídos</div></div>
     <div class="kpi"><div class="k-lbl">Materiais vs. Mão de Obra</div><div class="k-val">${fmtBRL(matShare)}</div><div class="k-sub">Materiais (~56%) · Mão de Obra ${fmtBRL(laborShare)} (~44%)</div></div>
     <div class="kpi"><div class="k-lbl">Economia vs. R01 (265m²)</div><div class="k-val" style="color:#34d399;">− ${fmtBRL(savingsVsR01)}</div><div class="k-sub">72,62 m² economizados sem perder o 'U'!</div></div>
@@ -1397,8 +1381,7 @@ function renderCosts() {
     ["7. Esquadrias (Vidros Grandes p/ Jardim Central) & Portão", "12%", baseHouse * 0.12],
     ["8. Revestimentos, Louças, Metais, Pintura & Limpeza", "21%", baseHouse * 0.21]
   ];
-  if (murosCost > 0) stages.push(["Extra A. Muros Divisa (58m × 2,2m) + Lixeira 1.9.E + Cx. Gordura", "—", murosCost]);
-  if (poolCost > 0) stages.push(["Extra B. Piscina Fundos (5,60 × 2,40 m) c/ Casa de Máquinas", "—", poolCost]);
+  if (murosCost > 0) stages.push(["Extra. Muros Divisa (58m × 2,2m) + Lixeira 1.9.E + Cx. Gordura", "—", murosCost]);
 
   document.getElementById("stage-table").innerHTML =
     `<thead><tr><th>Etapa da Obra (Material + Mão de Obra)</th><th class="num">%</th><th class="num">Estimativa</th></tr></thead><tbody>` +
@@ -1428,7 +1411,6 @@ function renderBlueprint() {
   }
   drawTitleBlock(svg);
 
-  toggleLayer("layer-pool", document.getElementById("chk-pool").checked);
   toggleLayer("layer-cotas", document.getElementById("chk-cotas").checked);
   toggleLayer("layer-mob", document.getElementById("chk-mob").checked);
   toggleLayer("layer-esq-tags", document.getElementById("chk-esq").checked);
@@ -1465,7 +1447,6 @@ function updateLegend() {
       <div class="leg-item"><div class="leg-swatch" style="background:#ea580c;"></div>Parede Cega Divisa (27,6 m ≤ 34,0 m)</div>
       <div class="leg-item"><div class="leg-swatch" style="background:#0f766e;"></div>Janela (J1, J2, J3)</div>
       <div class="leg-item"><div class="leg-swatch" style="background:#0284c7;"></div>Porta de Correr Vidro (PC1, PC2)</div>
-      <div class="leg-item"><div class="leg-swatch" style="background:#bae6fd;border:1px solid #0284c7;"></div>Piscina Opcional (Item 1.8)</div>
     `;
   }
 }
